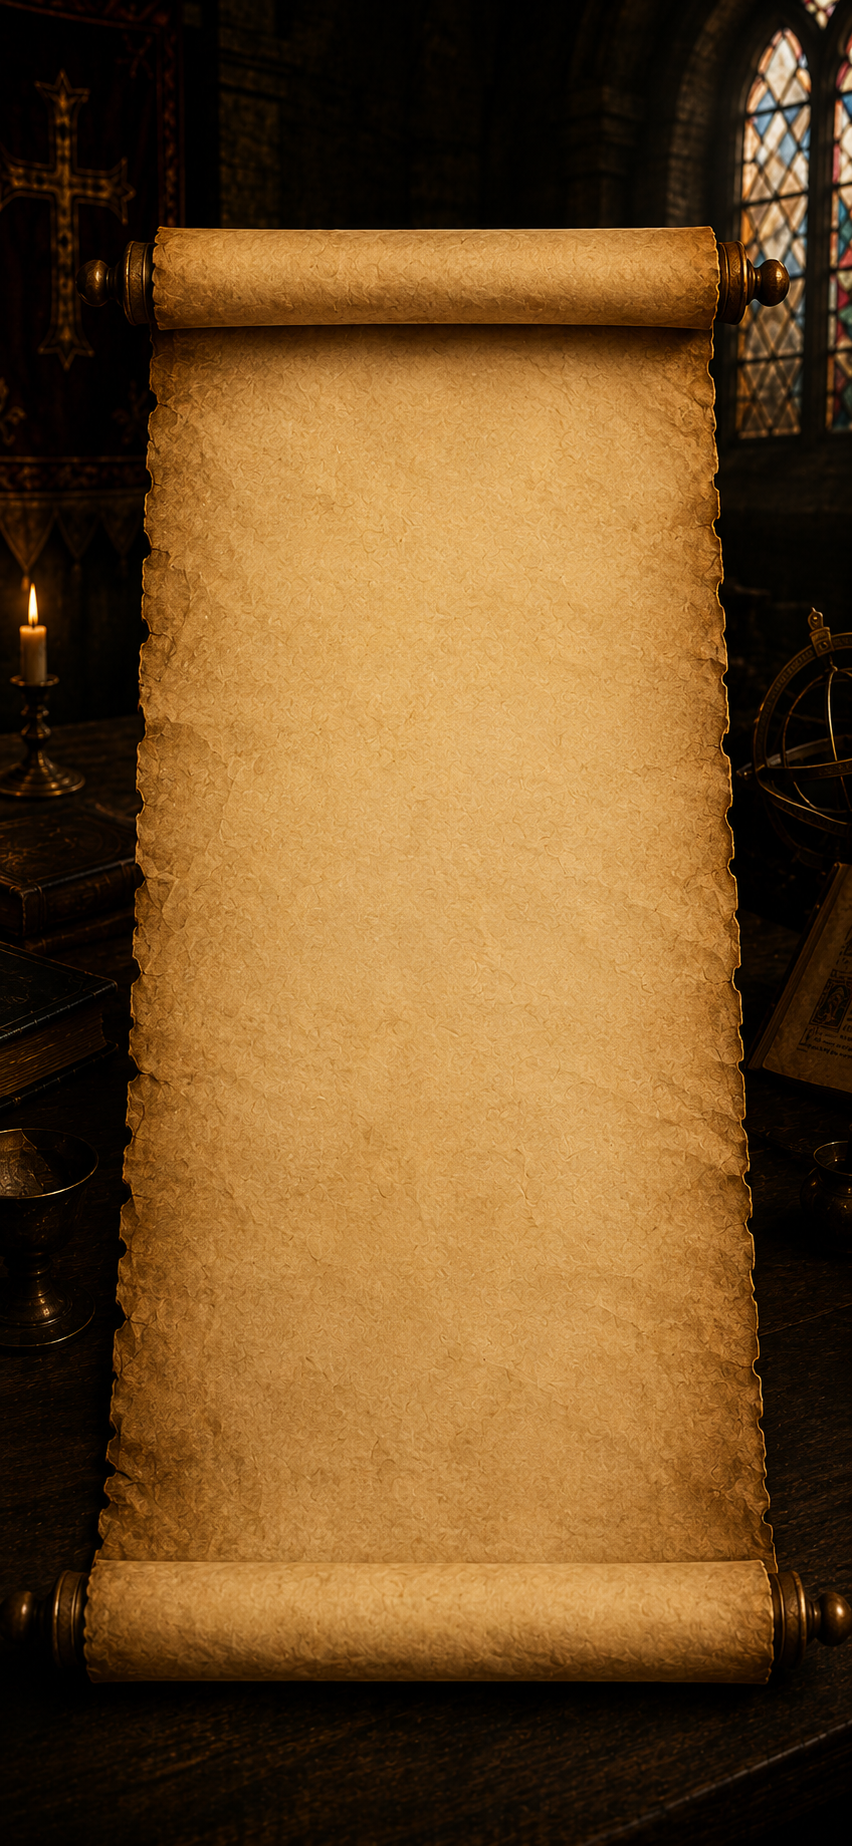
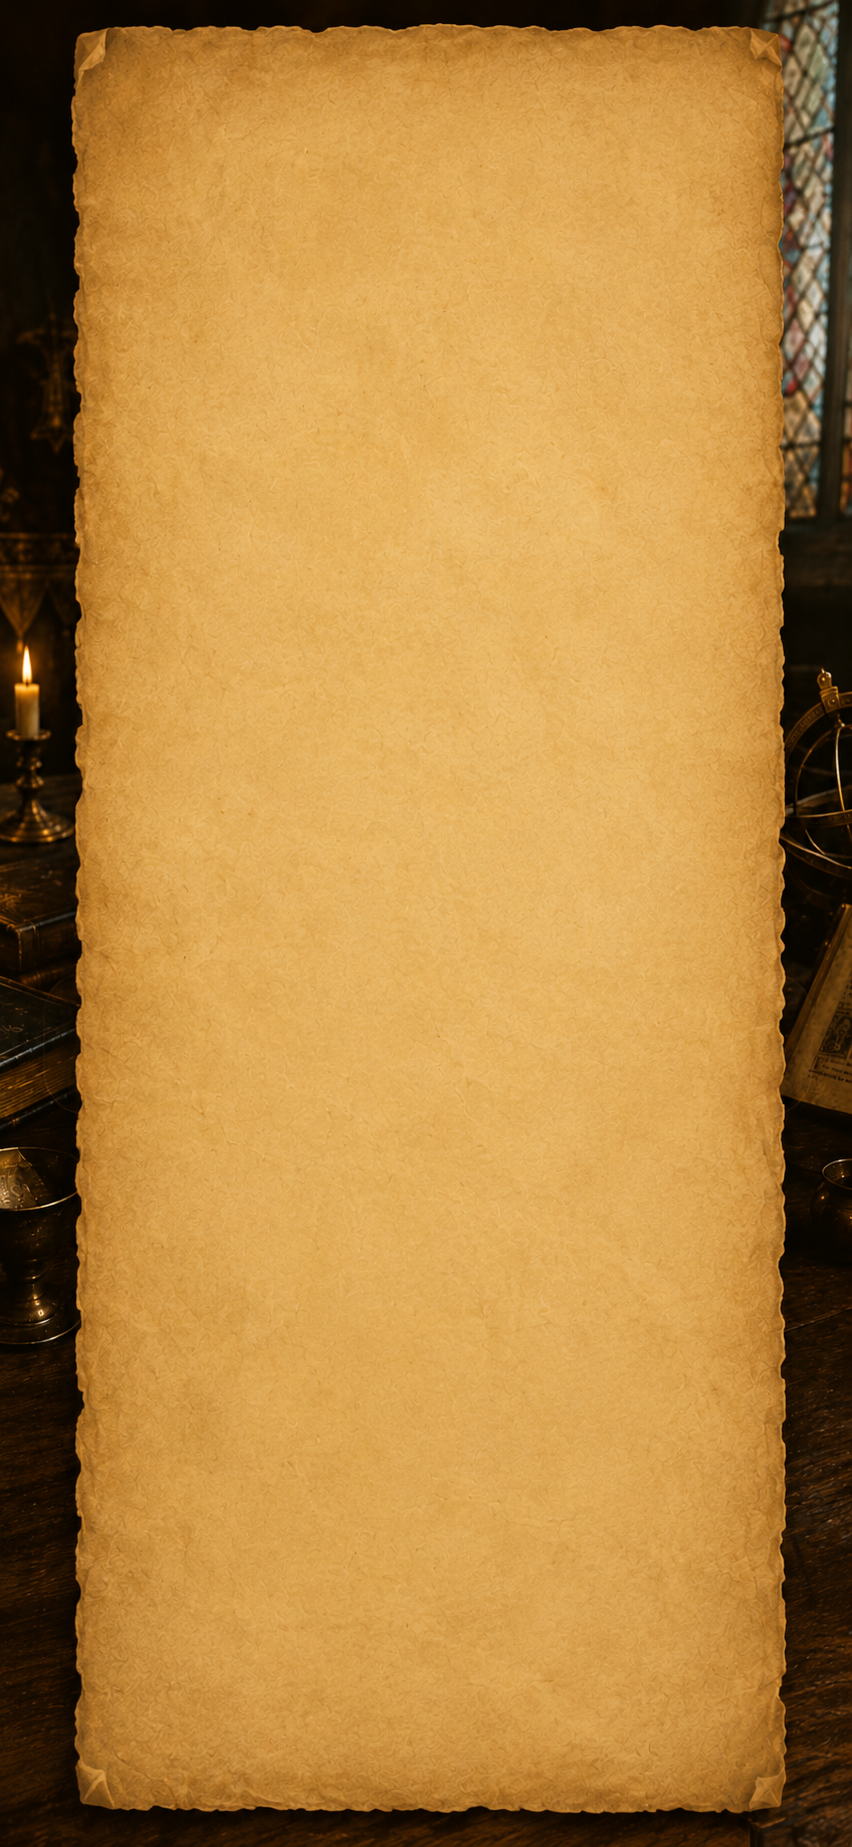
Replace parchment background image and remove Rx header text
- Swaps parchment-scroll.png for new atmospheric candlelit scroll image
- Removes all three Rx header divs from InputPhase, RevealPhase, and the combined phase scroll view

https://claude.ai/code/session_01VoXEvNd1t3qcaye5hR26WZ

diff --git a/src/components/learning/MedicalTheoryPrescription.jsx b/src/components/learning/MedicalTheoryPrescription.jsx
@@ -634,20 +634,6 @@ function InputPhase({ theory, tint, inputs, onChange, onCheck, pressed, setPress
           gap: SPACING.compact,
         }}>
 
-          {/* Rx header — no theory label */}
-          <div style={{
-            fontFamily: "'Sora', sans-serif",
-            fontSize: 28,
-            fontWeight: 700,
-            color: '#3A2008',
-            letterSpacing: '-0.02em',
-            marginBottom: SPACING.compact,
-            borderBottom: '1.5px solid rgba(58,32,8,0.20)',
-            paddingBottom: SPACING.micro,
-          }}>
-            Rx
-          </div>
-
           {/* Inputs directly on parchment */}
           <div style={{ display: 'flex', flexDirection: 'column', gap: 14 }}>
             {theory.acceptedAnswers.map((ans, i) => (
@@ -763,22 +749,6 @@ function RevealPhase({ theory, tint, inputs, result, revealCount, allComplete, o
           <div style={{ ...TYPE.metadata, textTransform: 'uppercase', color: BRONZE, letterSpacing: '0.06em' }}>
             {theory.label}
           </div>
-        </div>
-
-        {/* Rx header */}
-        <div style={{
-          fontFamily: "'Sora', sans-serif",
-          fontSize: 28, fontWeight: 700,
-          color: '#3A2008', letterSpacing: '-0.02em',
-          marginBottom: SPACING.compact,
-          borderBottom: '1.5px solid rgba(58,32,8,0.20)',
-          paddingBottom: SPACING.micro,
-          display: 'flex', alignItems: 'baseline', gap: 6,
-        }}>
-          <span>Rx</span>
-          <span style={{ ...TYPE.metadata, color: 'rgba(58,32,8,0.45)', fontSize: 11, fontStyle: 'italic', fontWeight: 400 }}>
-            {theory.label}
-          </span>
         </div>
 
         <div style={{ ...TYPE.cardTitle, color: '#2A1404', marginBottom: SPACING.micro }}>
@@ -900,32 +870,6 @@ function PrescriptionScroll({ theory, inputs, onChange, inputRefs, phase, result
         position: 'relative',
         padding: `${SPACING.standard}px`,
       }}>
-        {/* Rx header */}
-        <div style={{
-          fontFamily: "'Sora', sans-serif",
-          fontSize: 28,
-          fontWeight: 700,
-          color: '#3A2008',
-          letterSpacing: '-0.02em',
-          marginBottom: SPACING.compact,
-          borderBottom: `1.5px solid rgba(58,32,8,0.20)`,
-          paddingBottom: SPACING.micro,
-          display: 'flex',
-          alignItems: 'baseline',
-          gap: 6,
-        }}>
-          <span>Rx</span>
-          <span style={{
-            ...TYPE.metadata,
-            color: 'rgba(58,32,8,0.45)',
-            fontSize: 11,
-            fontStyle: 'italic',
-            fontWeight: 400,
-          }}>
-            {theory.label}
-          </span>
-        </div>
-
         {/* Lines */}
         <div style={{ display: 'flex', flexDirection: 'column', gap: 14 }}>
           {phase === 'input' && answers.map((ans, i) => (